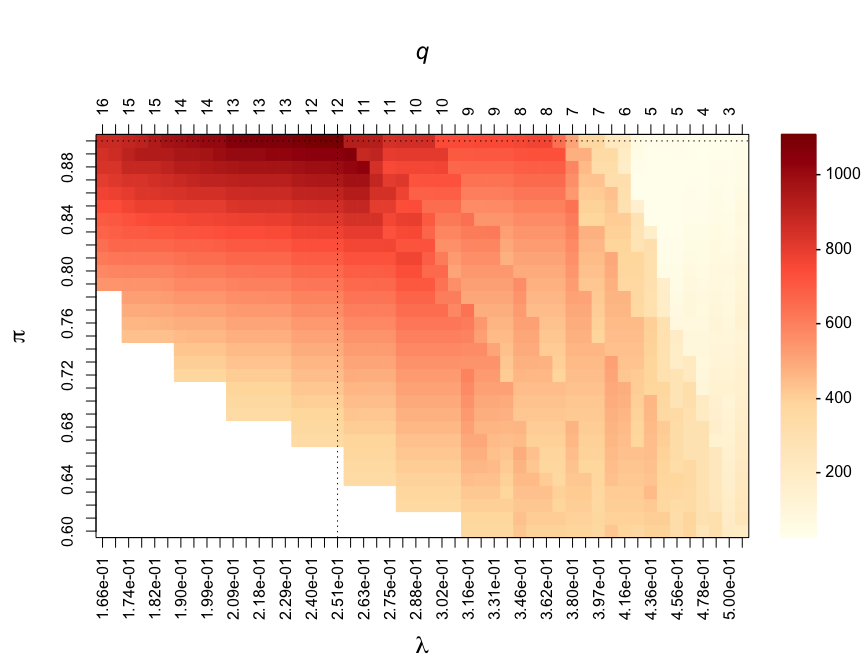
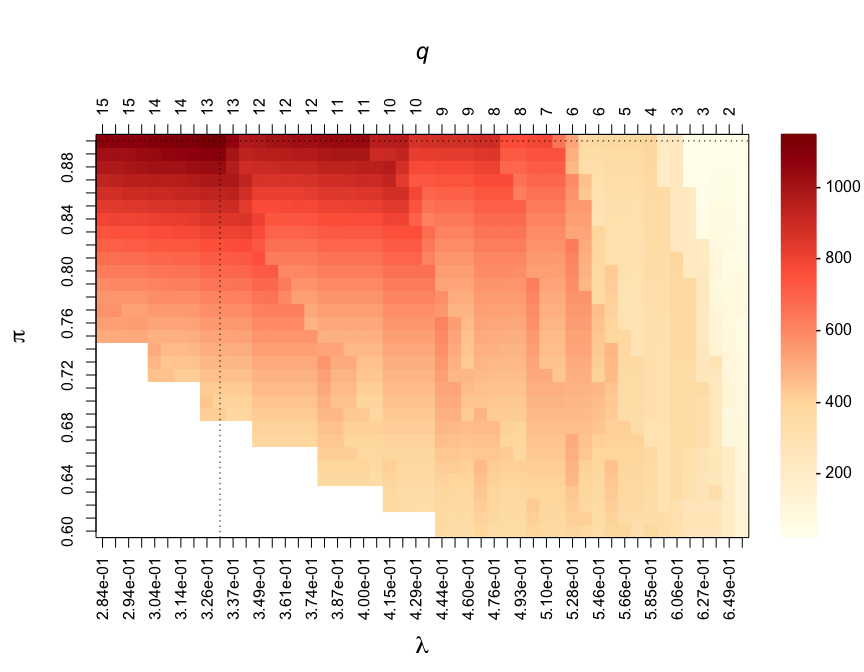
fix typo in readme

diff --git a/README.md b/README.md
@@ -106,13 +106,13 @@ using:
 ``` r
 # First few penalty parameters
 head(stab$Lambda)
-#>        [,1]
-#> s0 1.420237
-#> s1 1.307513
-#> s2 1.203736
-#> s3 1.108196
-#> s4 1.020239
-#> s5 0.939263
+#>         [,1]
+#> s0 1.3748144
+#> s1 1.2645070
+#> s2 1.1630501
+#> s3 1.0697335
+#> s4 0.9839041
+#> s5 0.9049612
 
 # Grid of thresholds in selection proportion
 stab$params$pi_list
@@ -150,9 +150,9 @@ quickly obtained with:
 
 ``` r
 summary(stab)
-#> Calibrated parameters: lambda = 0.348 and pi = 0.900
+#> Calibrated parameters: lambda = 0.305 and pi = 0.900
 #> 
-#> Maximum stability score: 694.140
+#> Maximum stability score: 736.982
 #> 
 #> Number of selected variable(s): 4
 ```
@@ -169,9 +169,9 @@ SelectedVariables(stab)
 #> var14 var15 var16 var17 var18 var19 var20 var21 var22 var23 var24 var25 var26 
 #>     0     0     0     0     0     0     1     0     0     0     0     0     1 
 #> var27 var28 var29 var30 var31 var32 var33 var34 var35 var36 var37 var38 var39 
-#>     0     0     0     0     0     0     0     1     0     0     0     0     0 
+#>     0     0     1     0     0     0     0     0     0     0     0     0     0 
 #> var40 var41 var42 var43 var44 var45 var46 var47 var48 var49 var50 
-#>     0     0     1     0     0     0     0     0     0     0     0
+#>     0     0     0     0     0     0     0     0     0     1     0
 ```
 
 Stably selected variables are the ones with selection proportions above
@@ -188,13 +188,13 @@ Selection proportion values can be extracted using:
 ``` r
 SelectionProportions(stab)
 #>  var1  var2  var3  var4  var5  var6  var7  var8  var9 var10 var11 var12 var13 
-#>  0.00  0.02  0.00  0.00  0.35  0.00  0.00  0.05  0.01  0.01  0.00  0.02  0.00 
+#>  0.00  0.00  0.00  0.00  0.43  0.00  0.01  0.00  0.00  0.02  0.00  0.00  0.00 
 #> var14 var15 var16 var17 var18 var19 var20 var21 var22 var23 var24 var25 var26 
-#>  0.00  0.00  0.00  0.00  0.00  0.06  1.00  0.00  0.00  0.00  0.00  0.00  1.00 
+#>  0.00  0.03  0.00  0.01  0.00  0.00  0.98  0.00  0.00  0.01  0.00  0.00  1.00 
 #> var27 var28 var29 var30 var31 var32 var33 var34 var35 var36 var37 var38 var39 
-#>  0.18  0.00  0.51  0.01  0.00  0.00  0.00  0.97  0.00  0.00  0.03  0.01  0.00 
+#>  0.00  0.00  0.90  0.00  0.00  0.00  0.00  0.33  0.07  0.01  0.00  0.00  0.00 
 #> var40 var41 var42 var43 var44 var45 var46 var47 var48 var49 var50 
-#>  0.00  0.01  0.90  0.01  0.00  0.00  0.01  0.00  0.00  0.73  0.04
+#>  0.00  0.00  0.33  0.01  0.00  0.00  0.00  0.00  0.00  0.99  0.00
 ```
 
 ## Graphical modelling
@@ -274,11 +274,11 @@ viewed using:
 
 ``` r
 summary(stab)
-#> Calibrated parameters: lambda = 0.251 and pi = 0.900
+#> Calibrated parameters: lambda = 0.331 and pi = 0.900
 #> 
-#> Maximum stability score: 1102.130
+#> Maximum stability score: 1141.949
 #> 
-#> Number of selected edge(s): 9
+#> Number of selected edge(s): 10
 ```
 
 ### Outputs
@@ -303,9 +303,9 @@ Adjacency(stab)
 #> var3     0    0    0    0    0    0    0    0    1     1
 #> var4     0    1    0    0    1    0    1    1    0     0
 #> var5     0    0    0    1    0    0    0    0    0     0
-#> var6     0    0    0    0    0    0    0    0    0     1
+#> var6     0    0    0    0    0    0    0    1    0     1
 #> var7     0    0    0    1    0    0    0    0    0     0
-#> var8     0    0    0    1    0    0    0    0    0     1
+#> var8     0    0    0    1    0    1    0    0    0     1
 #> var9     1    0    1    0    0    0    0    0    0     0
 #> var10    0    0    1    0    0    1    0    1    0     0
 ```
@@ -313,7 +313,7 @@ Adjacency(stab)
 And converted to an igraph object using:
 
 ``` r
-mygraph=Graph(Adjacency(stab))
+mygraph <- Graph(Adjacency(stab))
 set.seed(1)
 plot(mygraph)
 ```
